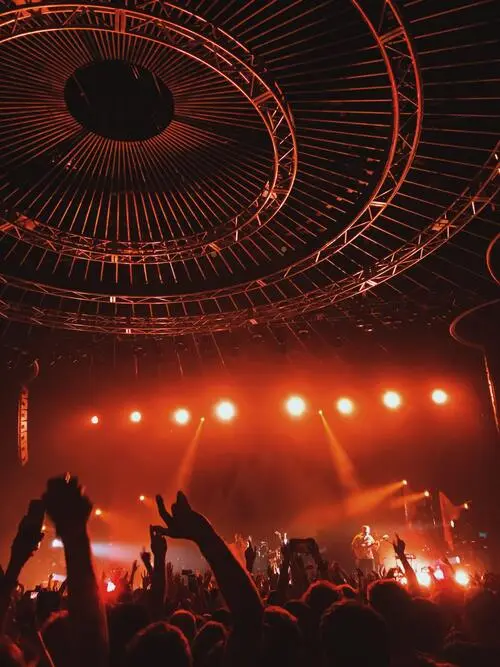
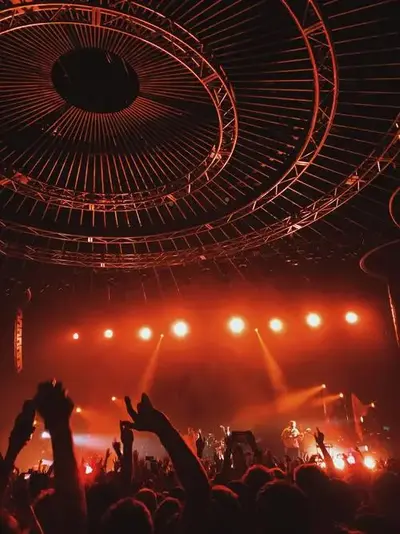
resize img

diff --git a/index.html b/index.html
@@ -53,7 +53,7 @@
 				</div>
 				<div class="carousel-inner">
 					<div class="carousel-item active">
-						<img src="./assets/images/slider/ryoji-iwata.webp" loading="lazy" class="d-block w-100" alt="Homme en costume marchant sur un fond rayé noir et blanc">
+						<img src="./assets/images/slider/ryoji-iwata.webp" class="d-block w-100" alt="Homme en costume marchant sur un fond rayé noir et blanc">
 					</div>
 					<div class="carousel-item">
 						<img src="./assets/images/slider/nicholas-green.webp" loading="lazy" class="d-block w-100" alt="Foule de personnes qui acclament">
